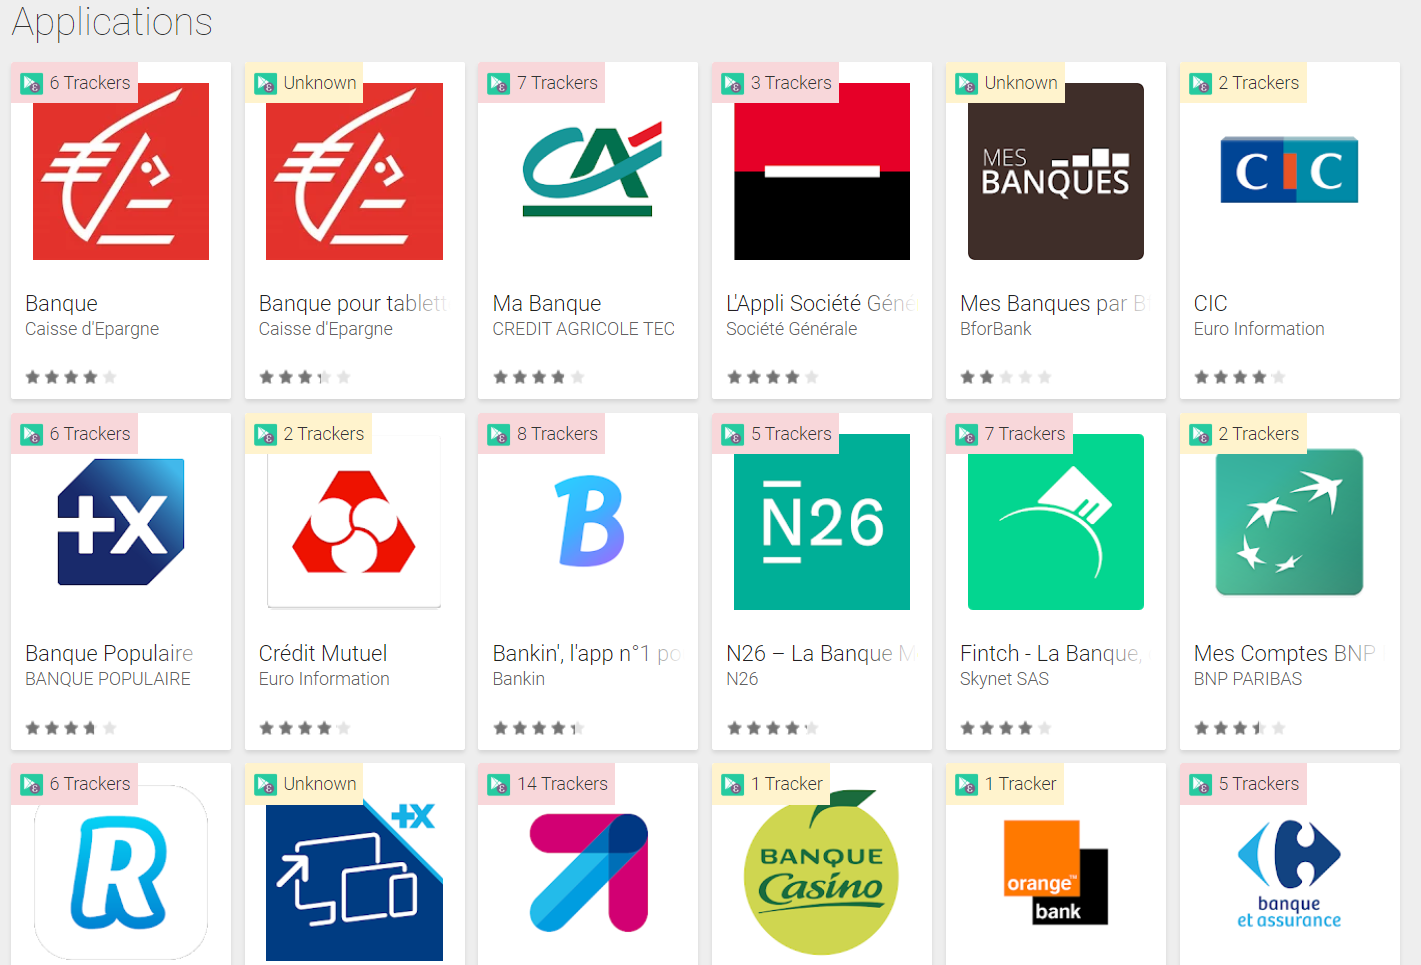
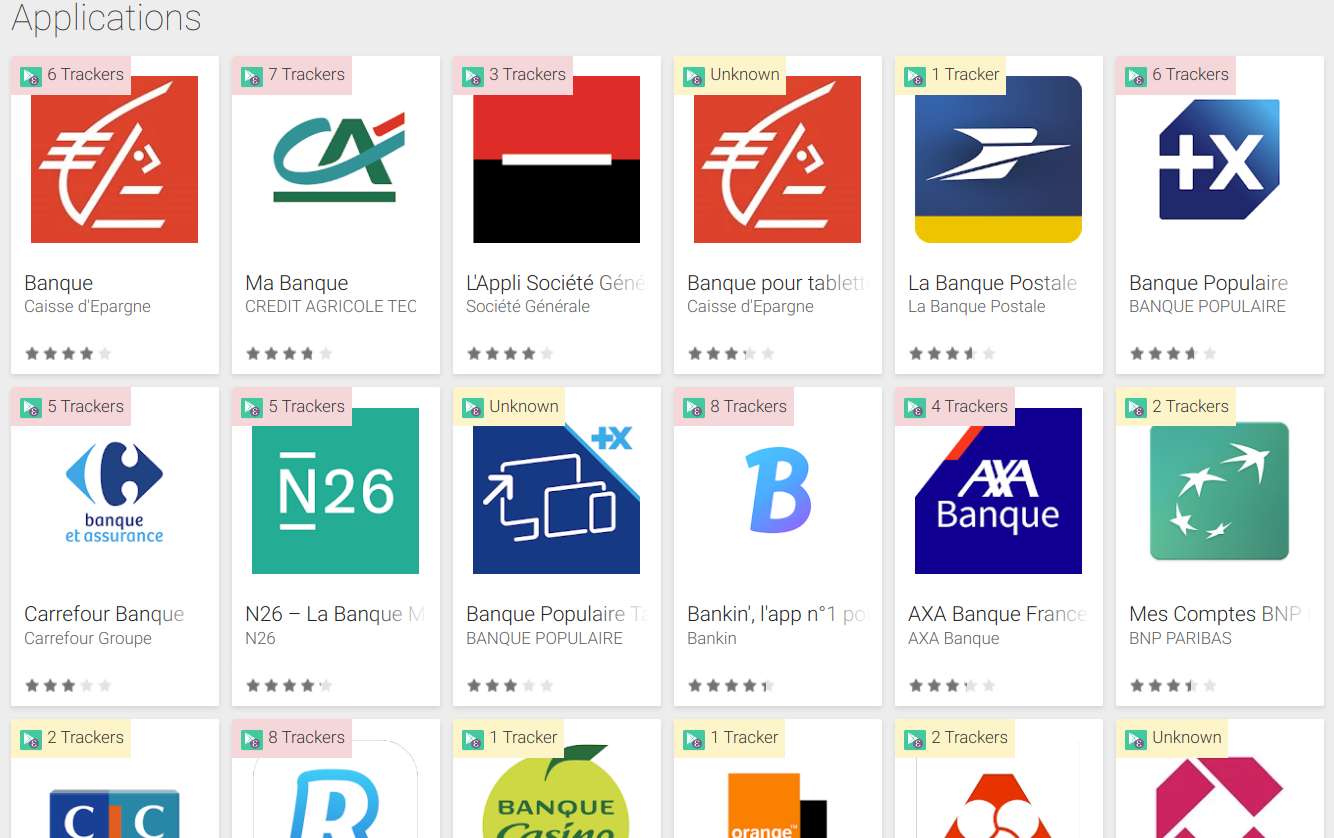
updated screenshots

diff --git a/conferences/talks/2019_fosdem.html b/conferences/talks/2019_fosdem.html
@@ -209,7 +209,7 @@
 			<li>Show the <b>trackers</b> and <b>required permissions</b> in the apps in your smartphone</li>
 			<li>Available on F-Droid and Google Play!</li>
 		</ul>
-		<img src="assets/exodus-app.png" height="300px">
+		<img src="assets/exodus-app.2.png" height="325px">
 	</section>
 
 	<section class="slide">
